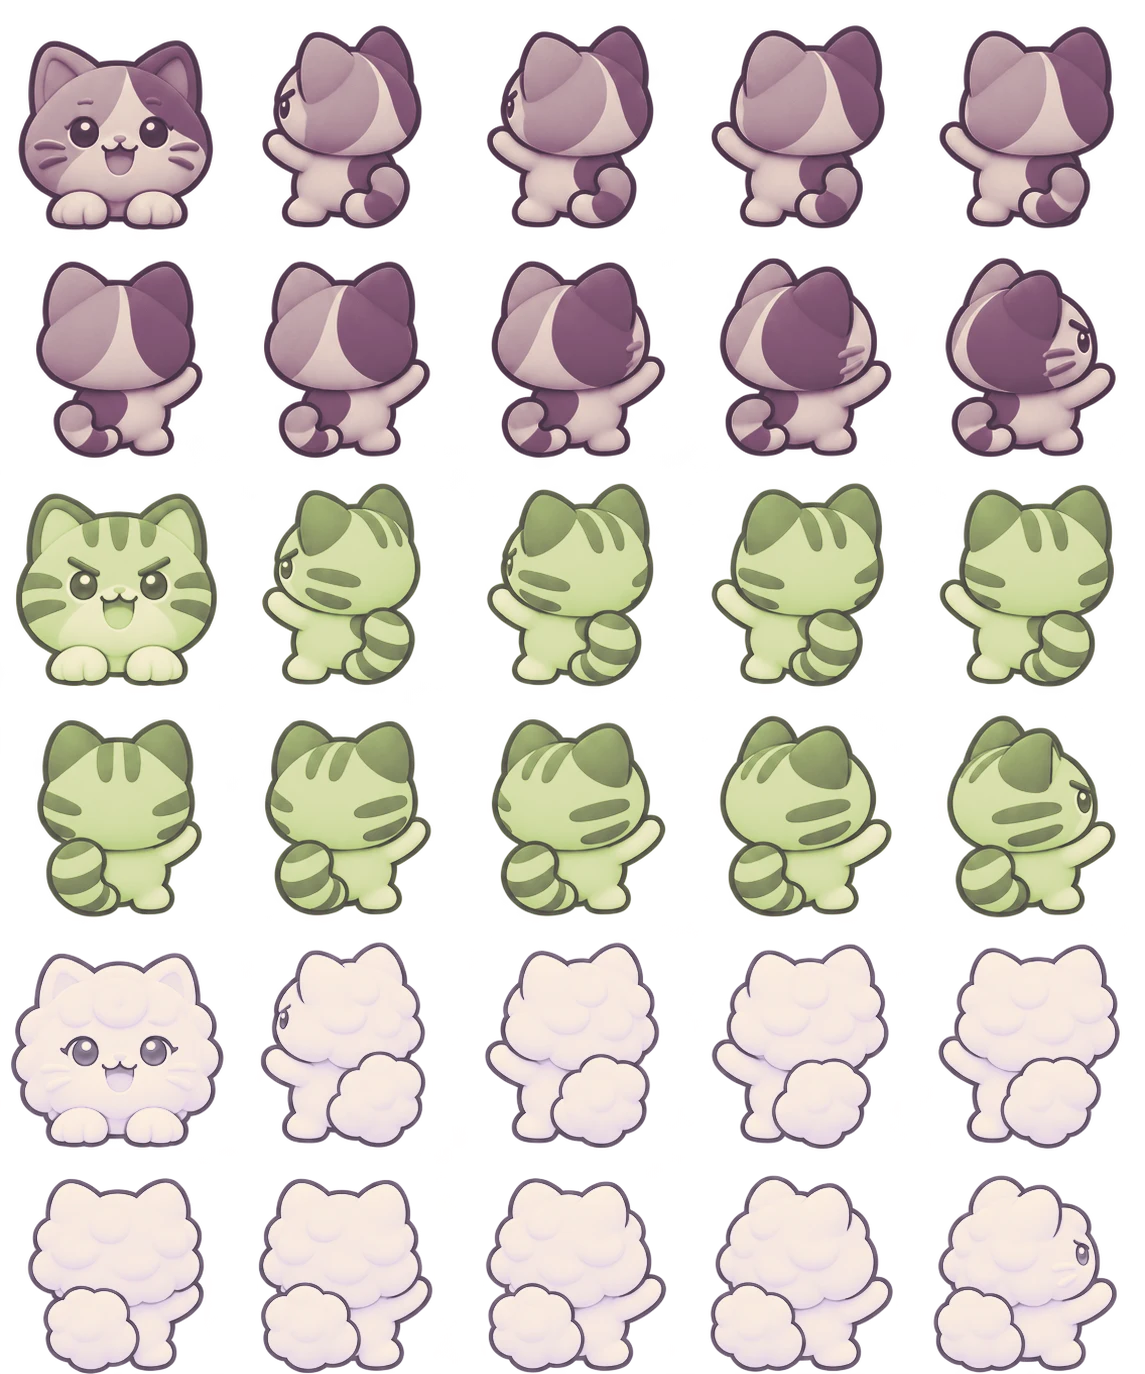
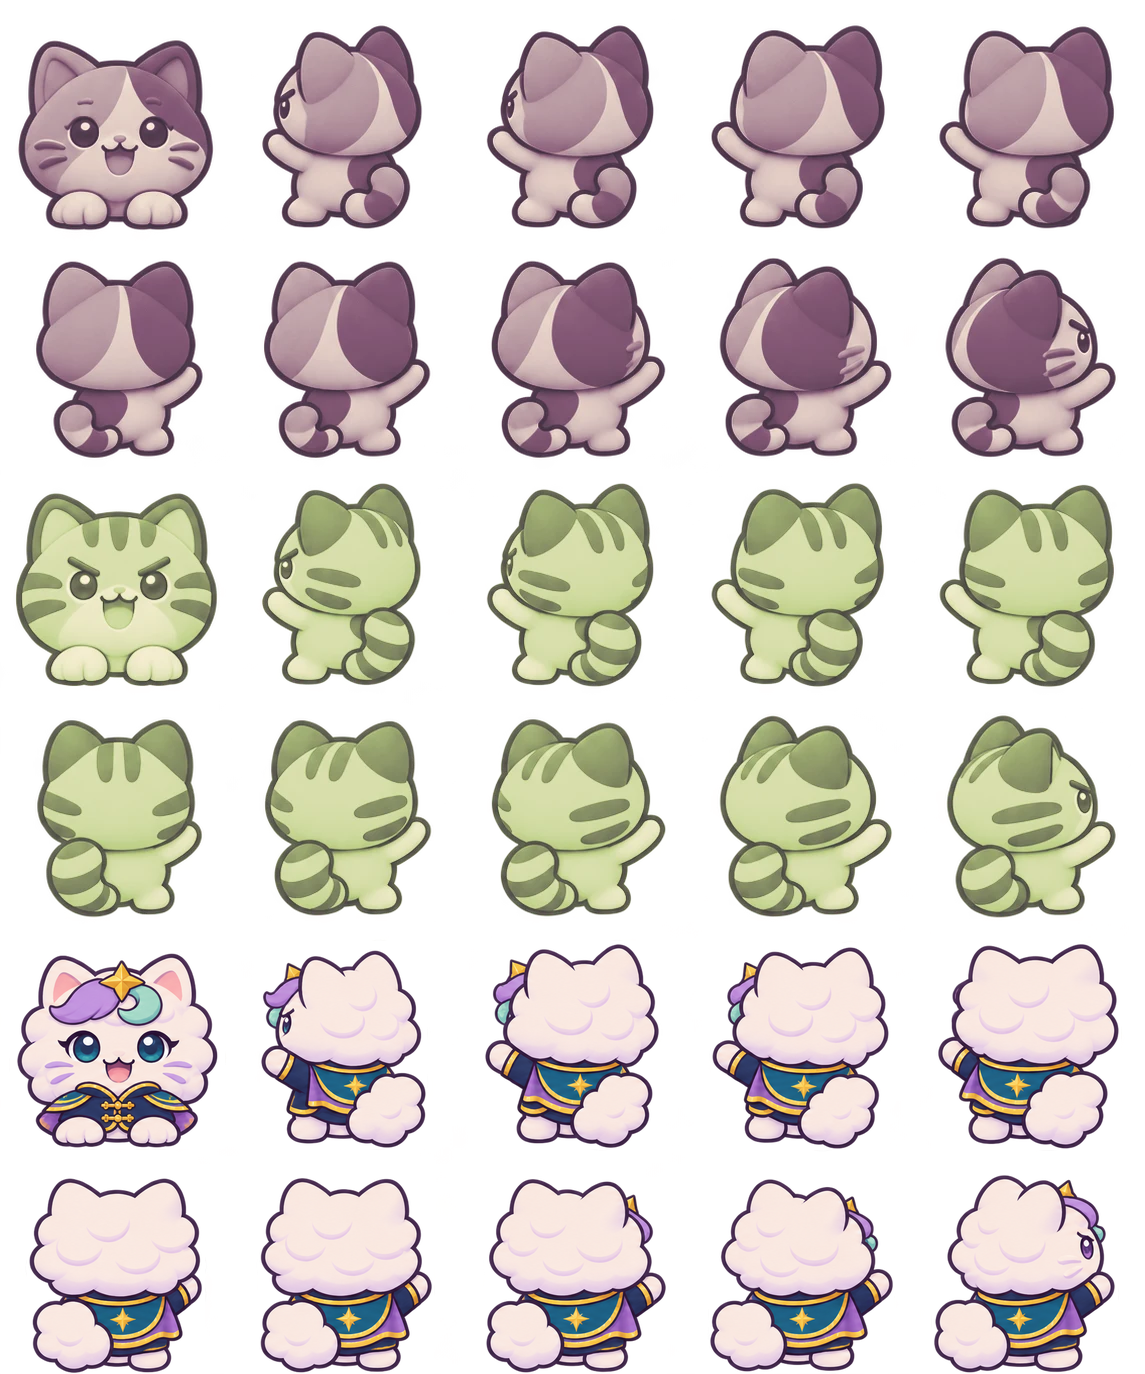
기존 S급 구도로 극광냥을 맞추고 전투 자세마다 제복과 반망토 적용

diff --git a/app/src/idle/sovereign-arrival.css b/app/src/idle/sovereign-arrival.css
@@ -58,8 +58,8 @@
 }
 .sovereign-impact {
   position: absolute;
-  left: 57.5%;
-  top: 20%;
+  left: 62%;
+  top: 22%;
   width: 1px;
   height: 1px;
   display: grid;
